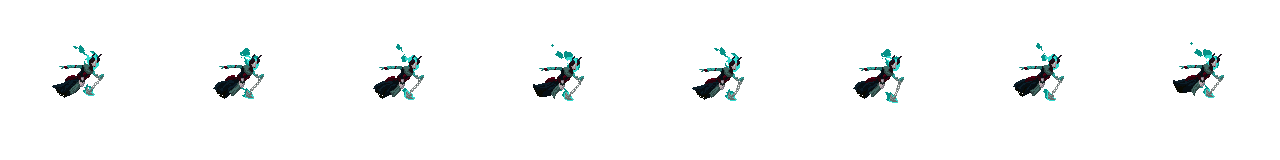
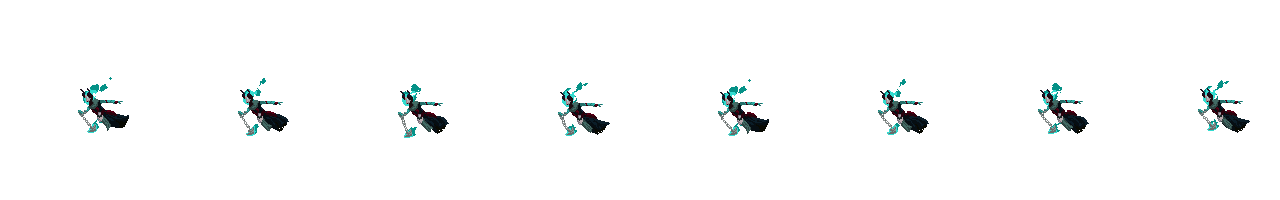
Attack1/Attack1Test in progress

diff --git a/index.js b/index.js
@@ -119,20 +119,24 @@ const enemy = new Fighter({
       framesMax: 10,
     },
     run: {
-      imageSrc: './img/ghost/Move2.png',
+      imageSrc: './img/ghost/Move.png',
+      framesMax: 8,
+    },
+    moveBack: {
+      imageSrc: './img/ghost/MoveBack.png',
       framesMax: 8,
     },
     jump: {
-      imageSrc: './img/kenji/Jump.png',
-      framesMax: 2,
+      imageSrc: './img/ghost/Move.png',
+      framesMax: 8,
     },
     fall: {
-      imageSrc: './img/kenji/Fall.png',
-      framesMax: 2,
+      imageSrc: './img/ghost/Move.png',
+      framesMax: 8,
     },
     attack1: {
-      imageSrc: './img/kenji/Attack1.png',
-      framesMax: 4,
+      imageSrc: './img/ghost/Attack1Test.png',
+      framesMax: 10,
     },
     attack2: {
       imageSrc: './img/kenji/Attack2.png',
@@ -233,7 +237,7 @@ function animate() {
     countdown < 0
   ) {
     enemy.velocity.x = 5;
-    enemy.switchSprite('run');
+    enemy.switchSprite('moveBack');
   } else {
     enemy.switchSprite('idle');
   }

diff --git a/js/classes.js b/js/classes.js
@@ -223,6 +223,13 @@ class Fighter extends Sprite {
           this.framesCurrent = 0;
         }
         break;
+      case 'moveBack':
+        if (this.image !== this.sprites.moveBack.image) {
+          this.image = this.sprites.moveBack.image;
+          this.framesMax = this.sprites.moveBack.framesMax;
+          this.framesCurrent = 0;
+        }
+        break;
       case 'jump':
         if (this.image !== this.sprites.jump.image) {
           this.image = this.sprites.jump.image;
